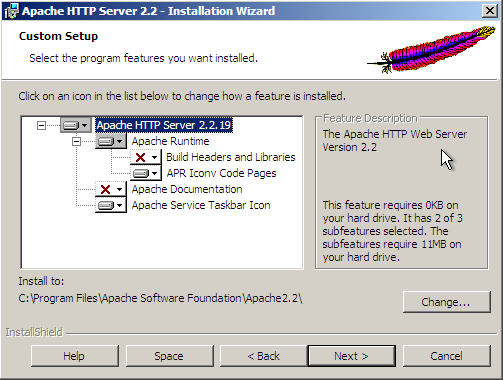
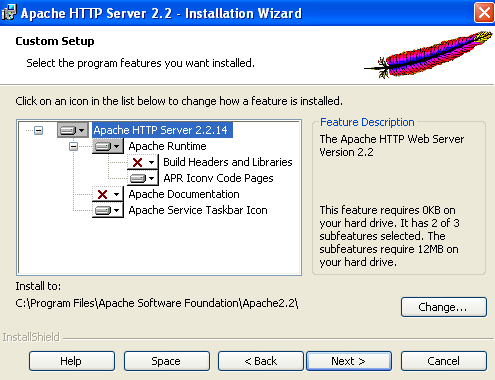
a

diff --git a/cap01/index.tex b/cap01/index.tex
@@ -530,8 +530,8 @@ către ce hostname trimitem cererea, daemonul ne va răspunde cu aceleaşi fişi
 \section{Instalarea mediului de dezvoltare}
 În această secţiune vom instala cele două scule necesare creării şi testării
 aplicaţiilor web, sau mai bine spus, scripturilor PHP. Mă voi limita doar
-la instrucţiuni pentru Microsoft Windows XP\footnote{Instalarea sub Windows Vista sau 
-Windows 7 este asemănătoare.}. Instalarea sub GNU/Linux este uşoară: nu trebuie
+la instrucţiuni
+pentru Microsoft Windows XP. Instalarea sub GNU/Linux este uşoară: nu trebuie
 decât să instalezi pachetele de genul \texttt{apache} sau \texttt{httpd}
 şi \texttt{PHP} din repozitoriul
 pus la dispoziţie de distribuţia ta, aşa cum ai instala orice alt program.
@@ -543,9 +543,7 @@ atât pentru windows, cât şi pentru GNU/Linux.
 
 În primul rând, intră pe pagina oficială a daemonului
 apache\footnote{\url{http://httpd.apache.org/}} şi urmează linkul
-Download a ultimei versiuni, momentan\footnote{08.08.2011} 2.2.19\footnote{Tot
-timpul este bine să alegi ultima versiune, cea stabilă.}.
-%Data notata mai sus este data scrierii articolului, nu data publicarii versiunii apache
+Download a ultimei versiuni, momentan\footnote{17.01.2010} 2.2.14.
 
 
 \begin{figure}[ht!]
@@ -624,9 +622,21 @@ pagini statice în formatul html, iar calculatorul tău este acum un server.
 
 Noi însă vrem să generăm în mod dinamic cod HTML cu PHP. Deci intră pe pagina oficială
 PHP\footnote{\url{http://php.net}} şi urmează linkul de download,
-sub \texttt{Windows binaries}\footnote{În părţile ce urmează se foloseşte
-versiunea 5.3.6, dar tu trebuie să alegi ultima versiune stabilă. Important este 
-doar să selectezi versiunea compilată cu VC9, care este thread-safe.} (Figura \ref{fig:php win bin}).
+sub \texttt{Windows binaries} (Figura \ref{fig:php win bin}).
+
+\attention{Toate programele care lucrează cu text, precum editoarele text şi browserele,
+oferă o funcţionalitate de căutare a unui text. În majoritatea programelor, combinaţia
+de taste \keystroke{CTRL+F} deschide un dialog de căutare. Fiind pe o pagină,
+dacă nu găseşti un text, apasă această combinaţie de taste şi introdu titlurile
+linkurilor sau orice alt text în a cărui căutare eşti.}
+
+\begin{figure}[ht!]
+  \centering
+    \includegraphics[width=340px]{cap01/Screenshot-6.png}
+  \caption{PHP - Pagina oficială de download}
+  \label{fig:php win bin}
+\end{figure}
+
 Selectează tipul de executabil \texttt{VC9 x86 Thread Safe} pentru
 versiunea PHP 5.3, ca în \ref{fig:php build type}, apoi
 descarcă arhiva .zip care conţine PHP, salvând-o în \texttt{C:{\textbackslash}webdev\textbackslash}.
@@ -718,7 +728,7 @@ Figura \ref{img:win new env var}. Această nouă variabilă de mediu
 
 În acest moment, PHP este setat şi l-am putea lansa în execuţie folosind
 calea absolută
-\texttt{C:{\textbackslash}webdev{\textbackslash}php-5.3.6{\textbackslash}php.exe}, ceea ce
+\texttt{C:{\textbackslash}webdev{\textbackslash}php-5.3.1{\textbackslash}php.exe}, ceea ce
 poate deveni obositor cu timpul. Însă putem integra \texttt{php.exe}
 în sistem astfel încât să fie recunoscut ca comandă.
 
@@ -732,7 +742,7 @@ variabila systemului numită \texttt{Path}
 %  \label{img:win env path}
 %\end{figure}
 şi adaugă-i la sfârşit:
-\texttt{;C:{\textbackslash}webdev{\textbackslash}php-5.3.6{\textbackslash}}, ca în
+\texttt{;C:{\textbackslash}webdev{\textbackslash}php-5.3.1{\textbackslash}}, ca în
 Figura \ref{img:win env path}.
 \begin{figure}[ht!]
   \centering
@@ -755,7 +765,7 @@ Testează dacă ai setat totul cum trebuie deschizând o nouă instanţă
 a promptului ms-dos.
 Acolo introdu comanda \texttt{php --ini}.
 Totul este corect dacă php este găsit de sistem, iar comanda de mai sus îţi
-arată \texttt{C:{\textbackslash}webdev{\textbackslash}php-5.3.6{\textbackslash}php.ini}
+arată \texttt{C:{\textbackslash}webdev{\textbackslash}php-5.3.1{\textbackslash}php.ini}
 ca \textit{Loaded Configuration File}.
 
 %Mai multe informaţii despre PHP ca limbaj de scripting CLI găseşti pe
@@ -781,9 +791,9 @@ Deschide \texttt{httpd.conf} cu notepad++ şi adaugă-i la sfârşit
 \texttt{Include conf/extra/httpd-php.conf}
 apoi crează un nou fişier cu \keystroke{CTRL+N} cu acest conţinut:
 \begin{verbatim}
-LoadModule php5_module "C:/webdev/php-5.3.6/php5apache2_2.dll"
+LoadModule php5_module "C:/webdev/php-5.3.1/php5apache2_2.dll"
 AddType application/x-httpd-php .php
-PHPIniDir "C:/webdev/php-5.3.6"
+PHPIniDir "C:/webdev/php-5.3.1"
 
 <IfModule dir_module>
     DirectoryIndex index.php index.html

diff --git a/Dezvoltare web cu PHP.tex b/Dezvoltare web cu PHP.tex
@@ -122,7 +122,7 @@ extendedchars}[keywords]
 \titleformat{\section}{\huge}{}{0em}{}
 
 \renewcommand{\ExerciseName}{Exerciţiu}
-\renewcommand{\ExePartName}{{\goodbreak}Partea}
+\renewcommand{\ExePart}{{\goodbreak}Partea}
 \renewcommand{\ExerciseHeader}{\needspace{5\baselineskip} \vskip .5em\hrule\vskip 1em\centerline{\textbf{\large\smallpencil
 \ExerciseHeaderNB\ExerciseHeaderTitle%
 \ExerciseHeaderDifficulty\ExerciseHeaderOrigin\medskip}}}
